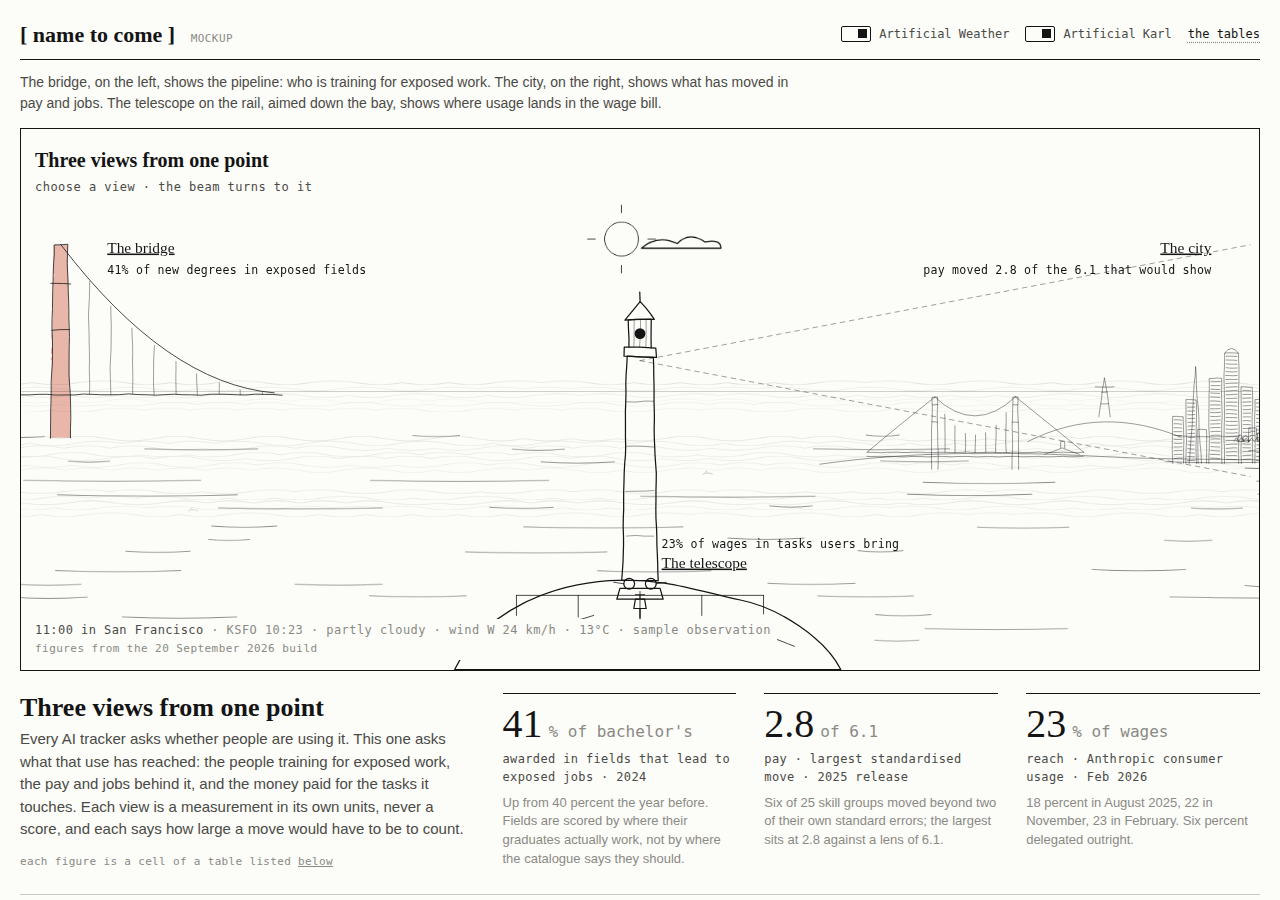
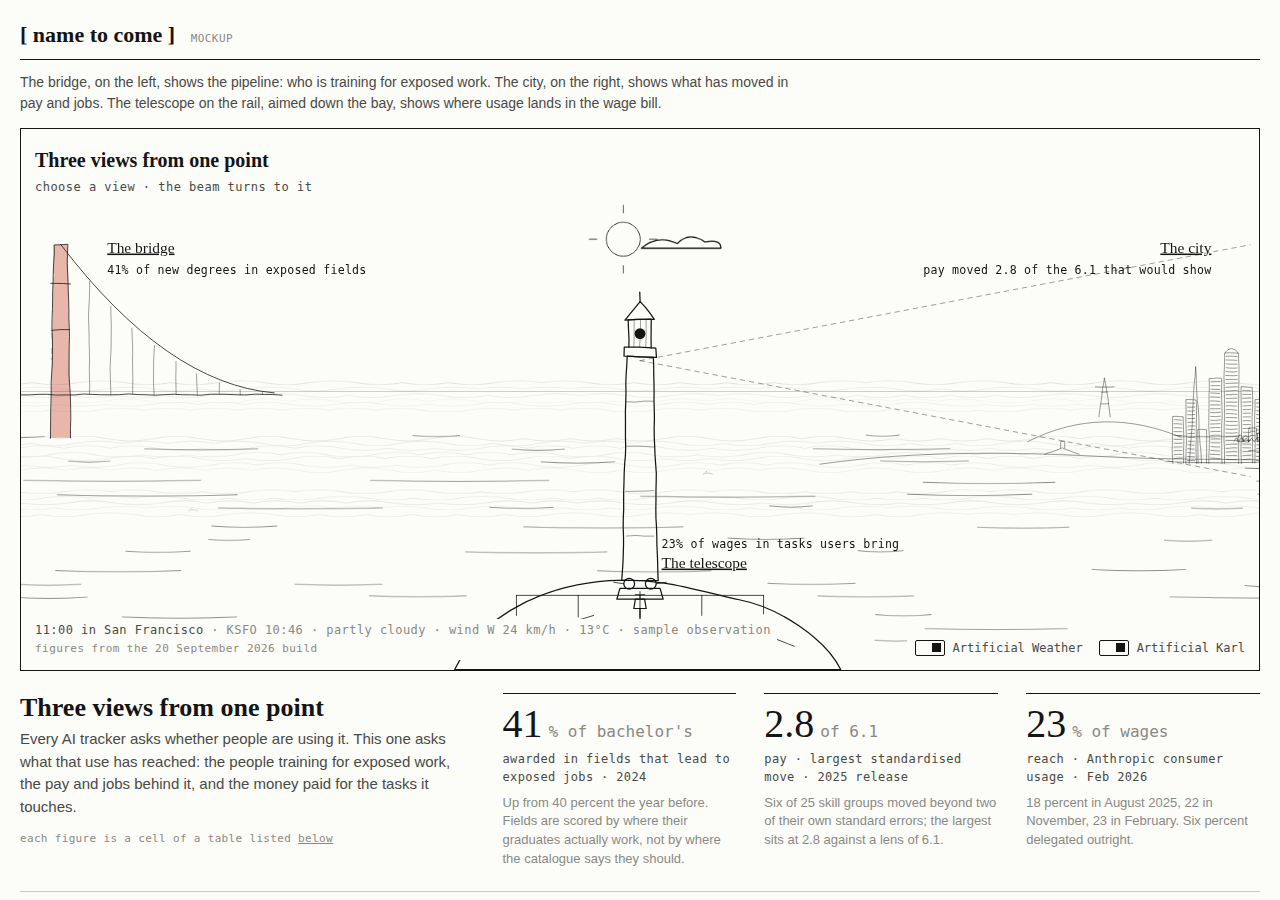
Front page: the toggles on the drawing, the whole beam as the hit area, no bridge in the city and the robotaxi on the Embarcadero, birds only through the glass, a rocket that falters one time in three, a strip for exploring the sky and the hour

diff --git a/docs/mockup/index.html b/docs/mockup/index.html
@@ -23,7 +23,8 @@ body{margin:0;background:var(--paper);color:var(--ink);font-family:var(--body);f
 header.top{display:flex;align-items:baseline;justify-content:space-between;gap:16px;flex-wrap:wrap;padding-block:18px 8px;border-bottom:1px solid var(--ink)}
 .brand{font-family:var(--display);font-size:22px;font-weight:600}
 .brand small{font-family:var(--mono);font-weight:400;font-size:11px;color:var(--ink-3);margin-left:10px;letter-spacing:.04em}
-.ctl{display:flex;gap:16px;align-items:center;font-family:var(--mono);font-size:12px;color:var(--ink-2);flex-wrap:wrap}
+.frame{position:relative}
+.ctl{position:absolute;right:15px;bottom:11px;display:flex;gap:16px;align-items:center;font-family:var(--mono);font-size:12px;color:var(--ink-2);flex-wrap:wrap;background:var(--paper);padding:3px 0 3px 8px}
 .ctl label{display:inline-flex;align-items:center;gap:8px;cursor:pointer}
 .ctl select{font-family:var(--mono);font-size:12px;background:var(--paper);color:var(--ink);border:1px solid var(--ink);padding:3px 6px}
 .ctl input[type=checkbox]{appearance:none;width:30px;height:16px;border:1.5px solid var(--ink);border-radius:2px;position:relative;cursor:pointer;background:transparent;margin:0}
@@ -86,7 +87,7 @@ header.top{display:flex;align-items:baseline;justify-content:space-between;gap:1
 
 .hot{cursor:pointer}
 .hot,.hot *{outline:none;pointer-events:auto}
-.hot rect{fill:transparent;stroke:none}
+.hot .hit{fill:transparent;stroke:none}
 .hot .cap{text-decoration:underline dotted;text-decoration-color:var(--ink-3);text-underline-offset:6px}
 .hot:hover .cap,.hot:focus-visible .cap{text-decoration:underline solid;text-decoration-color:var(--ink)}
 .detail{opacity:0;transition:opacity .25s}
@@ -140,6 +141,10 @@ header.top{display:flex;align-items:baseline;justify-content:space-between;gap:1
 .cad{font-family:var(--mono);font-size:12px;color:var(--ink-3);line-height:1.7;white-space:nowrap}
 .cad b{color:var(--ink-2);font-weight:500}
 .foot{margin-top:18px;font-size:13px;color:var(--ink-3);max-width:80ch}
+.lab{margin-top:22px;font-family:var(--mono);font-size:11px;color:var(--ink-3);display:flex;flex-wrap:wrap;gap:6px 10px;align-items:center;letter-spacing:.03em}
+.lab button{all:unset;cursor:pointer;border:1px solid var(--hair);padding:2px 7px;color:var(--ink-2)}
+.lab button:hover,.lab button.on{border-color:var(--ink);color:var(--ink)}
+.lab button:focus-visible{outline:2px solid var(--ink)}
 .tables{margin-top:26px;border-top:1px solid var(--ink);padding-top:14px}
 .tables h3{font-family:var(--mono);font-size:12px;font-weight:500;letter-spacing:.06em;text-transform:uppercase;color:var(--ink-2);margin:0 0 8px}
 .tables p{margin:0 0 10px;color:var(--ink-2);max-width:80ch;font-size:14px}
@@ -171,7 +176,7 @@ header.top{display:flex;align-items:baseline;justify-content:space-between;gap:1
      drawing go, the filters go, and the three views become three cards to tap. */
   .reading{grid-template-columns:1fr}.figures,.reading.three .figures{grid-template-columns:1fr}.series{grid-template-columns:1fr}.cad{white-space:normal}
   .stage{aspect-ratio:4/3}.scene .cap,.scene .mark,.scene .detail{display:none}   /* the drawing sits in the middle band; the card above it, the stamp below */
-  .stamp{font-size:10px;right:14px;line-height:1.5}.stamp .obs{font-size:10px}
+  .stamp{font-size:10px;line-height:1.5}.ctl{position:static;justify-content:flex-end;margin-top:8px;padding:0;background:none}.stamp .obs{font-size:10px}
   .wc{filter:none}
   .caption h1{font-size:16px}.caption p{display:none}.edge{width:44px}.edge span{font-size:11px}
   .vig{grid-template-columns:1fr}.strap{font-size:13px}.tables dl{grid-template-columns:1fr}
@@ -181,14 +186,10 @@ header.top{display:flex;align-items:baseline;justify-content:space-between;gap:1
 <div class="wrap">
   <header class="top">
     <div class="brand">[ name to come ] <small>MOCKUP</small></div>
-    <div class="ctl">
-      <label title="the sky from the airport's latest observation"><input type="checkbox" id="tg-aw" checked> Artificial Weather</label>
-      <label title="the fog, drawn"><input type="checkbox" id="tg-ak" checked> Artificial Karl</label>
-      <a href="#tables">the tables</a>
-    </div>
   </header>
   <p class="strap">The bridge, on the left, shows the pipeline: who is training for exposed work. The city, on the right, shows what has moved in pay and jobs. The telescope on the rail, aimed down the bay, shows where usage lands in the wage bill.</p>
 
+  <div class="frame">
   <div class="stage" id="stage" data-view="home" data-aw="on" data-ak="on">
     <svg class="pan" id="L-sky" viewBox="0 0 1600 700" aria-hidden="true">
       <defs>
@@ -216,20 +217,20 @@ header.top{display:flex;align-items:baseline;justify-content:space-between;gap:1
         <g id="lh"></g>
         <path d="M640 604 L 960 604 M640 604 L 640 630 M720 604 L 720 632 M800 604 L 800 632 M880 604 L 880 630 M960 604 L 960 628" class="thin"/>
         <g class="hot" id="hot-tele" tabindex="0" role="button" aria-label="The telescope: where usage lands">
-          <rect x="690" y="520" width="220" height="180"/>
+          <path class="hit" d="M800 300 L560 700 L1040 700 Z"/><path class="hit" d="M690 520 h220 v180 h-220 Z"/>
           <g transform="translate(800,655)" id="viewer-small"></g>
           <text x="828" y="568" class="cap">The telescope</text>
           <text x="828" y="542" class="mark" id="mark-valley"></text>
           <g class="detail"><text x="828" y="518">where usage lands · look south, to the valley</text></g>
         </g>
         <g class="hot" id="hot-city" tabindex="0" role="button" aria-label="The city: what has moved">
-          <rect x="1000" y="120" width="560" height="200"/>
+          <path class="hit" d="M800 300 L1600 120 L1600 480 Z"/><path class="hit" d="M1000 120 h560 v200 h-560 Z"/>
           <text x="1540" y="160" text-anchor="end" class="cap">The city</text>
           <text x="1540" y="188" text-anchor="end" class="mark" id="mark-city"></text>
           <g class="detail"><text x="1540" y="210" text-anchor="end">what has moved · pay and jobs, tested against their own history</text></g>
         </g>
         <g class="hot" id="hot-bridge" tabindex="0" role="button" aria-label="The bridge: the pipeline">
-          <rect x="40" y="120" width="560" height="200"/>
+          <path class="hit" d="M800 300 L0 120 L0 480 Z"/><path class="hit" d="M40 120 h560 v200 h-560 Z"/>
           <text x="110" y="160" class="cap">The bridge</text>
           <text x="110" y="188" class="mark" id="mark-bridge"></text>
           <g class="detail"><text x="110" y="210">the pipeline · who is training for exposed work</text></g>
@@ -267,6 +268,12 @@ header.top{display:flex;align-items:baseline;justify-content:space-between;gap:1
     </div>
   </div>
 
+  <div class="ctl">
+    <label title="the sky from the airport's latest observation"><input type="checkbox" id="tg-aw" checked> Artificial Weather</label>
+    <label title="the fog, drawn"><input type="checkbox" id="tg-ak" checked> Artificial Karl</label>
+  </div>
+  </div>
+
   <section class="reading three" id="reading">
     <div><h2 id="r-title"></h2><p class="lens" id="r-lens"></p><p class="from" id="r-from"></p></div>
     <div class="figures">
@@ -290,6 +297,8 @@ header.top{display:flex;align-items:baseline;justify-content:space-between;gap:1
     <p>Every figure on this page is a cell in one of these files, written by the build from the publishers' releases and never edited by hand. Each view names the tables it reads; the checks file records what each table was tested for and the value it measured.</p>
     <dl id="table-list"></dl>
   </section>
+
+  <div class="lab"><span>for exploring, not part of the page</span> <span>sky</span><span id="lab-sky"></span> <span>hour</span><span id="lab-hour"></span></div>
 
   <p class="foot">Ink on paper, one splash of colour in each view, a little life now and then, a gull, a plane on the approach, a rocket out of the south, a robotaxi that meets a hydrant, a gust, and the sky drawn from the latest observation at the airport: the description and visibility pick one of eight presets, wind sets how fast the fog and cloud drift and which way, by the heading of the view you are looking along, and rain falls slanted by it. The light follows San Francisco's clock: the sun rises over the city and sets past the bridge, the drawing turns to white ink on black after dark, and the moon is drawn at its phase. Nothing in the drawing encodes a number from the index; those sit beneath it in their own units, with the file each came from.</p>
 </div>
@@ -417,7 +426,6 @@ header.top{display:flex;align-items:baseline;justify-content:space-between;gap:1
     el("path", {d:`M ${ox+520} ${baseY-60} C ${ox+640} ${baseY-120}, ${ox+760} ${baseY-118}, ${ox+880} ${baseY-70}`, class:"hair"}, g);
     const sx = ox+700, sy = baseY-118;
     el("path", {d:`M${sx-14} ${sy} L ${sx} ${sy-92} L ${sx+14} ${sy} M${sx-9} ${sy-30} L ${sx+9} ${sy-30} M${sx-6} ${sy-58} L ${sx+6} ${sy-58} M${sx-22} ${sy-70} L ${sx+22} ${sy-70}`, class:"thin"}, g);
-    suspension(g, ox+300, ox+490, baseY-34, 130, 90);
     el("path", {d:`M ${ox+560} ${baseY-30} L ${ox+600} ${baseY-44} L ${ox+640} ${baseY-30} M ${ox+596} ${baseY-44} L ${ox+596} ${baseY-60} L ${ox+606} ${baseY-60} L ${ox+606} ${baseY-44}`, class:"thin"}, g);
     const towers = [[860,110,26,1],[892,150,24,1],[920,80,20,0],[946,200,30,1],[982,260,34,1],[1022,180,26,1],[1054,150,22,1],[1082,120,28,0],[1116,96,22,1],[1144,140,26,1],[1176,70,20,0]];
     for (const [x,h,w,win] of towers) box(g, ox+x, baseY-h-8, w, h, win);
@@ -554,7 +562,7 @@ header.top{display:flex;align-items:baseline;justify-content:space-between;gap:1
   // leans in; tables are the files the figures are cells of. The build's readings.json overwrites the figures.
   const R = {
     home:  { cap:["Three views from one point", "choose a view · the beam turns to it"],
-             title:"Three views from one point", lens:"Every AI tracker asks whether people are using it. This one asks what that use has reached: the people training for exposed work, the pay and jobs behind it, and the money paid for the tasks it touches. Each view is a measurement in its own units, never a score, and each says how large a move would have to be to count.",
+             title:"Three views from one point", lens:"Every AI tracker asks whether people are using it. This one asks what that use has reached: the people training for exposed work, the pay and jobs behind it, and the money paid for the tasks it touches.",
              left:null, right:null, pan:-HOME, fgx:0, z:1, tables:[] },
     city:  { cap:["The city · what has moved", "pay and jobs by skill group, each tested against its own history · a move counts when it passes the lens"],
              title:"What has moved", lens:"Pay and employment by occupation, folded into 25 named skill groups and tested each year against that group's own year-to-year swing. The lens is set in advance at the size a move would have to reach to stand out from that history, which is why a small reading is still the right reading: this is the instrument that will notice. It changes once a year, with each spring release of the wage tables.",
@@ -607,6 +615,7 @@ header.top{display:flex;align-items:baseline;justify-content:space-between;gap:1
     clearTimeout(timer);
     stage.dataset.view = view;
     $("#life").replaceChildren();                                              // whatever was crossing the last view stays there
+    if (view === "valley") $("#life").setAttribute("mask", "url(#binoc)"); else $("#life").removeAttribute("mask");
     const r = R[view];
     // the surfaces slide and lean in together; a percent of the surface width is a panorama unit over 1600
     pans.forEach(p => { p.style.transform = `translateX(${(r.pan*r.z/16).toFixed(3)}%) scale(${r.z})`; });
@@ -693,8 +702,10 @@ header.top{display:flex;align-items:baseline;justify-content:space-between;gap:1
   }
   const params = new URLSearchParams(location.search);
   const SAMPLE = { station:"KSFO", time:new Date(), text:"Fog/Mist", visibility_m:4000, wind_kmh:24, wind_from:270, rain_mm:0, temp_c:13, sample:true };
-  let OBS = SAMPLE;
-  if (params.get("sky")){ const k = params.get("sky"); OBS = {...SAMPLE, text:{storm:"Thunderstorm", rain:"Light Rain", "heavy rain":"Heavy Rain", wind:"Windy", clear:"Clear", overcast:"Overcast", "light cloud":"Partly Cloudy", fog:"Fog/Mist", "thick fog":"Fog"}[k] || k, visibility_m: k==="thick fog" ? 800 : k.includes("fog") ? 3000 : 16000, wind_kmh: k==="wind" ? 45 : k==="storm" ? 60 : 24}; }
+  let LIVE = SAMPLE, OBS = SAMPLE, HOUR = params.get("hour") != null ? parseFloat(params.get("hour")) : null;
+  function skyFor(k){ return {...LIVE, text:{storm:"Thunderstorm", rain:"Light Rain", "heavy rain":"Heavy Rain", wind:"Windy", clear:"Clear", overcast:"Overcast", "light cloud":"Partly Cloudy", fog:"Fog/Mist", "thick fog":"Fog"}[k] || k, visibility_m: k==="thick fog" ? 800 : k.includes("fog") ? 3000 : 16000, wind_kmh: k==="wind" ? 45 : k==="storm" ? 60 : 24, sample:true}; }
+  let FORCED = params.get("sky") || null;
+  if (FORCED) OBS = skyFor(FORCED);
   if (params.get("wind")){ const [d, v] = params.get("wind").split(",").map(Number); OBS = {...OBS, wind_from:d, wind_kmh:v}; }
 
   async function fetchObservation(){
@@ -713,9 +724,9 @@ header.top{display:flex;align-items:baseline;justify-content:space-between;gap:1
   const LAT = 37.82, LON = -122.53, rad = Math.PI/180;
   function sfNow(){
     const now = new Date();
-    if (params.get("hour") != null){
+    if (HOUR != null){
       const parts = Object.fromEntries(new Intl.DateTimeFormat("en-US",{timeZone:"America/Los_Angeles",hour:"numeric",minute:"numeric",hour12:false}).formatToParts(now).map(p=>[p.type,p.value]));
-      const h = parseFloat(params.get("hour")); const sfH = (+parts.hour % 24) + (+parts.minute)/60;
+      const h = HOUR; const sfH = (+parts.hour % 24) + (+parts.minute)/60;
       return new Date(now.getTime() + (h - sfH)*3600e3);
     }
     return now;
@@ -790,8 +801,15 @@ header.top{display:flex;align-items:baseline;justify-content:space-between;gap:1
     $("#obs").innerHTML = `<b>${sfClock(now)} in San Francisco</b> · ${o.station} ${sfClock(o.time)} · ${o.text.toLowerCase()} · wind ${dir} ${o.wind_kmh} km/h · ${o.temp_c}°C${o.sample ? " · sample observation" : age > 90 ? " · last observation" : ""}`;
   }
   drawSky(OBS, "home");
-  fetchObservation().then(o=>{ if (o){ OBS = o; drawSky(OBS, stage.dataset.view); } });
-  setInterval(()=>{ fetchObservation().then(o=>{ if (o) OBS = o; drawSky(OBS, stage.dataset.view); }); }, 600e3);
+  fetchObservation().then(o=>{ if (o){ LIVE = o; if (!FORCED) OBS = o; drawSky(OBS, stage.dataset.view); } });
+  setInterval(()=>{ fetchObservation().then(o=>{ if (o){ LIVE = o; if (!FORCED) OBS = o; } drawSky(OBS, stage.dataset.view); }); }, 600e3);
+  // the exploring strip: force a sky or an hour, for looking, not for the page
+  (function lab(){
+    const skies = ["live","clear","light cloud","overcast","fog","thick fog","rain","wind","storm"], hours = [["now",null],["dawn",6.5],["morning",9],["midday",12.5],["afternoon",16],["dusk",19.3],["night",22.5]];
+    const row = (host, items, pick) => items.forEach(([label, v]) => { const b = document.createElement("button"); b.textContent = label; b.onclick = ()=>{ pick(v); host.querySelectorAll("button").forEach(x=>x.classList.toggle("on", x===b)); drawSky(OBS, stage.dataset.view); }; host.appendChild(b); });
+    row($("#lab-sky"), skies.map(k=>[k,k]), k=>{ FORCED = k === "live" ? null : k; OBS = FORCED ? skyFor(FORCED) : LIVE; });
+    row($("#lab-hour"), hours, h=>{ HOUR = h; });
+  })();
   $("#tg-aw").addEventListener("change", e=>{ stage.dataset.aw = e.target.checked ? "on":"off"; });
   $("#tg-ak").addEventListener("change", e=>{ stage.dataset.ak = e.target.checked ? "on":"off"; });
 
@@ -814,15 +832,27 @@ header.top{display:flex;align-items:baseline;justify-content:space-between;gap:1
       const y = 120 + Math.random()*40;
       tween(32000, k=>{ g.setAttribute("transform", `translate(${1660 - k*1760},${y + k*18})`); }, ()=>{ clearInterval(blink); g.remove(); }); },
     rocket(){ if (!["bridge","valley","home"].includes(stage.dataset.view)) return EVENTS.gull();
-      const g = el("g", {class:"thin"}, life); const x0 = stage.dataset.view === "home" ? 1320 : 1180;
+      const view = stage.dataset.view, g = el("g", {class:"thin"}, life); const x0 = {home:1320, bridge:1180, valley:760}[view];
       el("path", {d:"M0 0 L 0 -26 L 4 -34 L 8 -26 L 8 0 Z M0 0 L -4 6 M8 0 L 12 6", transform:"translate(-4,0)"}, g);
       const plume = el("g", {class:"hair"}, g);
-      tween(14000, k=>{ const y = 300 - k*k*520, x = x0 + k*k*140; g.setAttribute("transform", `translate(${x},${y}) rotate(${k*14})`);
-        if (plume.childElementCount < 40 && Math.random() < .6) el("path", {d:`M${(Math.random()-.5)*8} ${6 + Math.random()*10} l 0 ${6 + Math.random()*14}`}, plume);
-        plume.style.opacity = 1 - k*0.6; }, ()=>g.remove()); },
+      const puff = () => { if (plume.childElementCount < 40 && Math.random() < .6) el("path", {d:`M${(Math.random()-.5)*8} ${6 + Math.random()*10} l 0 ${6 + Math.random()*14}`}, plume); };
+      if (Math.random() < 2/3){
+        tween(14000, k=>{ const y = 300 - k*k*520, x = x0 + k*k*140; g.setAttribute("transform", `translate(${x},${y}) rotate(${k*14})`); puff(); plume.style.opacity = 1 - k*0.6; }, ()=>g.remove());
+        return; }
+      // the other time: it climbs, falters, tumbles back to the water, and the bay closes over it
+      const waterY = {home:540, bridge:520, valley:430}[view]; let splash = null;
+      tween(11000, k=>{
+        if (k < .4){ const t = k/.4; const y = 300 - (2*t - t*t)*250, x = x0 + t*50; g.setAttribute("transform", `translate(${x},${y}) rotate(${t*14})`); puff(); plume.style.opacity = 1 - t*.7; }
+        else if (k < .82){ const t = (k-.4)/.42; const y = 50 + t*t*(waterY-50), x = x0 + 50 + Math.sin(t*9)*22; g.setAttribute("transform", `translate(${x},${y}) rotate(${14 + t*t*320 + Math.sin(t*26)*20})`); plume.style.opacity = Math.max(0, .3 - t); }
+        else { if (!splash){ g.style.opacity = 0; splash = el("g", {class:"thin"}, life); const sx = x0 + 50 + Math.sin(9)*22;
+            for (let i=0;i<7;i++){ const a = (-150 + i*20)*Math.PI/180; el("path", {d:`M${sx} ${waterY} l ${Math.cos(a)*8} ${Math.sin(a)*8} l ${Math.cos(a)*10} ${Math.sin(a)*14}`}, splash); }
+            el("path", {d:`M${sx-30} ${waterY+6} q 30 -5 60 0 M${sx-48} ${waterY+14} q 48 -6 96 0`, class:"hair"}, splash); }
+          splash.style.opacity = 1 - (k-.82)/.18; }
+      }, ()=>{ g.remove(); if (splash) splash.remove(); }); },
     robotaxi(){ if (stage.dataset.view !== "city") return EVENTS.gull();
       const z = R.city.z, vx = x => 800 + z*(x-800), vy = y => 380 + z*(y-380);   // the city leans in, so the shore does too
-      const g = el("g", {class:"thin"}, life); const y = vy(396); const S = 1.8*z; const hx = vx(1178), x0 = vx(640);
+      // it comes in from the right along the Embarcadero, past the Ferry Building, and meets the hydrant there
+      const g = el("g", {class:"thin"}, life); const y = vy(396); const S = 1.8*z; const hx = vx(1296), x0 = 1700;
       // a small car with its sensor dome, running the waterfront toward the hydrant by the Ferry Building
       const car = el("g", {transform:`scale(${S})`}, g);
       el("path", {d:"M-16 0 L 16 0 L 16 -8 L 10 -14 L -8 -14 L -16 -8 Z M-10 0 a 3 3 0 1 0 6 0 M4 0 a 3 3 0 1 0 6 0 M-2 -14 L -2 -18 a 4 3 0 1 1 8 0 L 6 -14 M-8 -14 L -6 -8 M 10 -14 L 8 -8", class:"thin"}, car);
@@ -830,9 +860,9 @@ header.top{display:flex;align-items:baseline;justify-content:space-between;gap:1
       const hyd = el("g", {transform:`translate(${hx},${y}) scale(${S})`}, life); el("path", {d:"M-3 0 L -3 -12 Q 0 -16 3 -12 L 3 0 M-6 -8 L 6 -8 M-3 -4 L 3 -4", class:"thin"}, hyd);
       const spout = el("g", {class:"thin"}, hyd); spout.style.opacity = 0;
       for (let i=0;i<11;i++) el("path", {d:`M0 -14 q ${7 + i*2} ${-16 - i*3} ${16 + i*4} ${-2 + i*2} M${16 + i*4} ${-2 + i*2} l 1 3`}, spout);
-      const stop = hx - 24*S;
-      tween(8000, k=>{ const x = x0 + Math.min(k*1.12, 1)*(stop-x0); const bump = k > .89 ? Math.sin((k-.89)*70)*3 : 0; g.setAttribute("transform", `translate(${x+bump},${y})`); if (k > .89) spout.style.opacity = Math.min(1, (k-.89)*12); },
-        ()=>{ tween(2600, k=>{ spout.style.opacity = 1; }, ()=>{ tween(2400, k=>{ g.setAttribute("transform", `translate(${stop - k*90},${y})`); spout.style.opacity = 1 - k; }, ()=>{ clearInterval(spin); g.remove(); hyd.remove(); }); }); }); },
+      const stop = hx + 26*S;
+      tween(3200, k=>{ const x = x0 + Math.min(k*1.12, 1)*(stop-x0); const bump = k > .89 ? Math.sin((k-.89)*70)*3 : 0; g.setAttribute("transform", `translate(${x+bump},${y})`); if (k > .89) spout.style.opacity = Math.min(1, (k-.89)*12); },
+        ()=>{ tween(2600, k=>{ spout.style.opacity = 1; }, ()=>{ tween(2400, k=>{ g.setAttribute("transform", `translate(${stop + k*120},${y})`); spout.style.opacity = 1 - k; }, ()=>{ clearInterval(spin); g.remove(); hyd.remove(); }); }); }); },
     gust(){ stage.classList.add("gust"); document.querySelectorAll(".gull").forEach(p=>{ p.style.transition = "transform .8s"; p.style.transform = "rotate(-22deg)"; });
       setTimeout(()=>{ stage.classList.remove("gust"); drawSky(OBS, stage.dataset.view); }, 5000); },
     ferry(){ if (stage.dataset.view !== "bridge") return EVENTS.gull();
